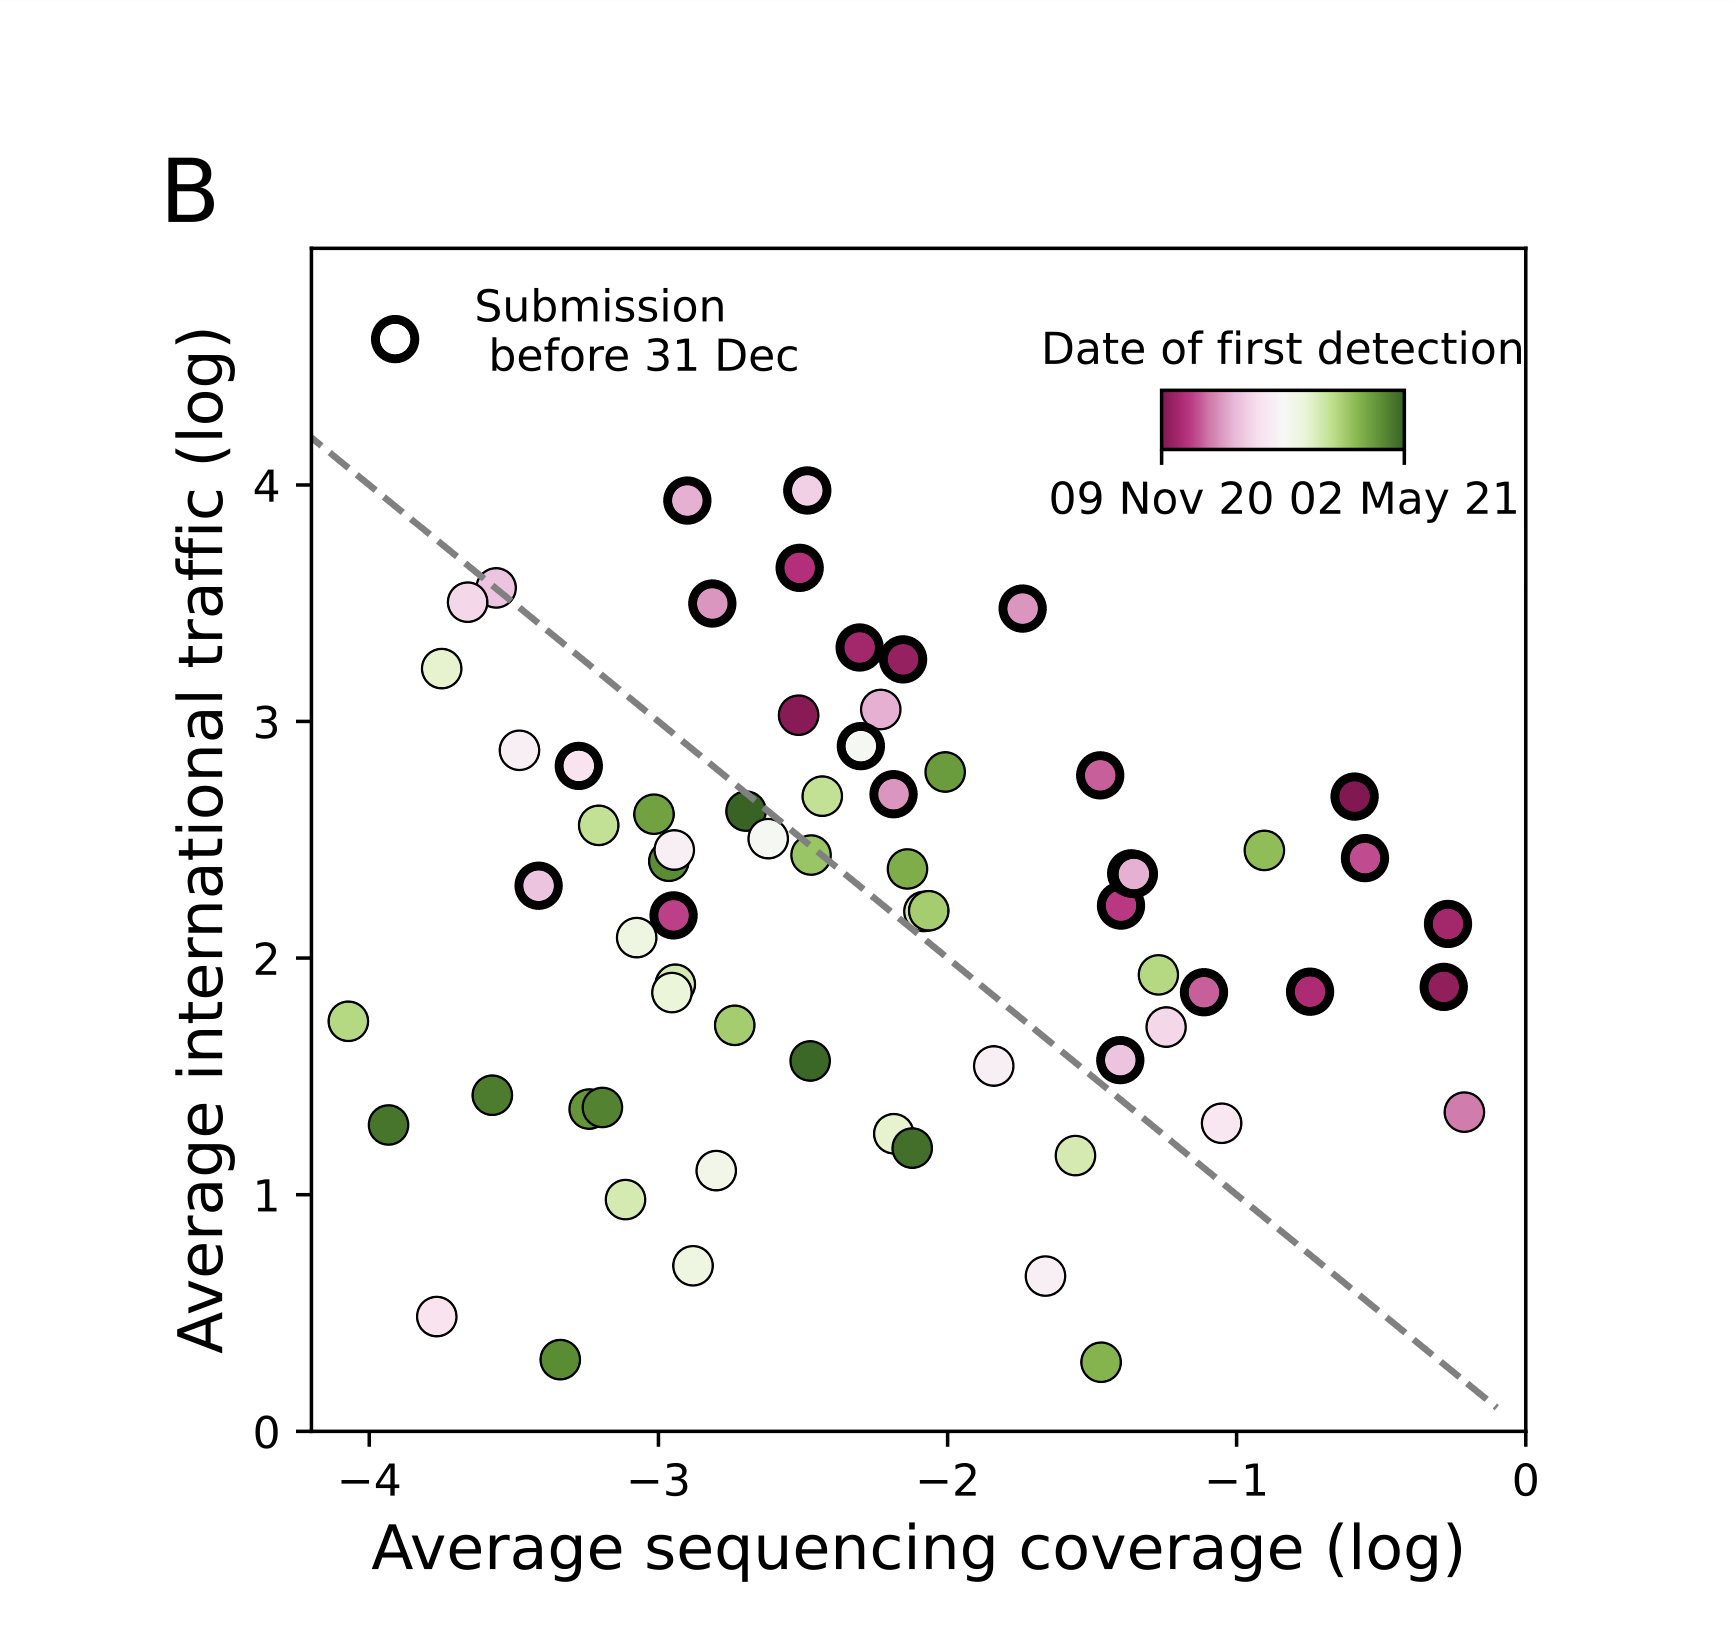
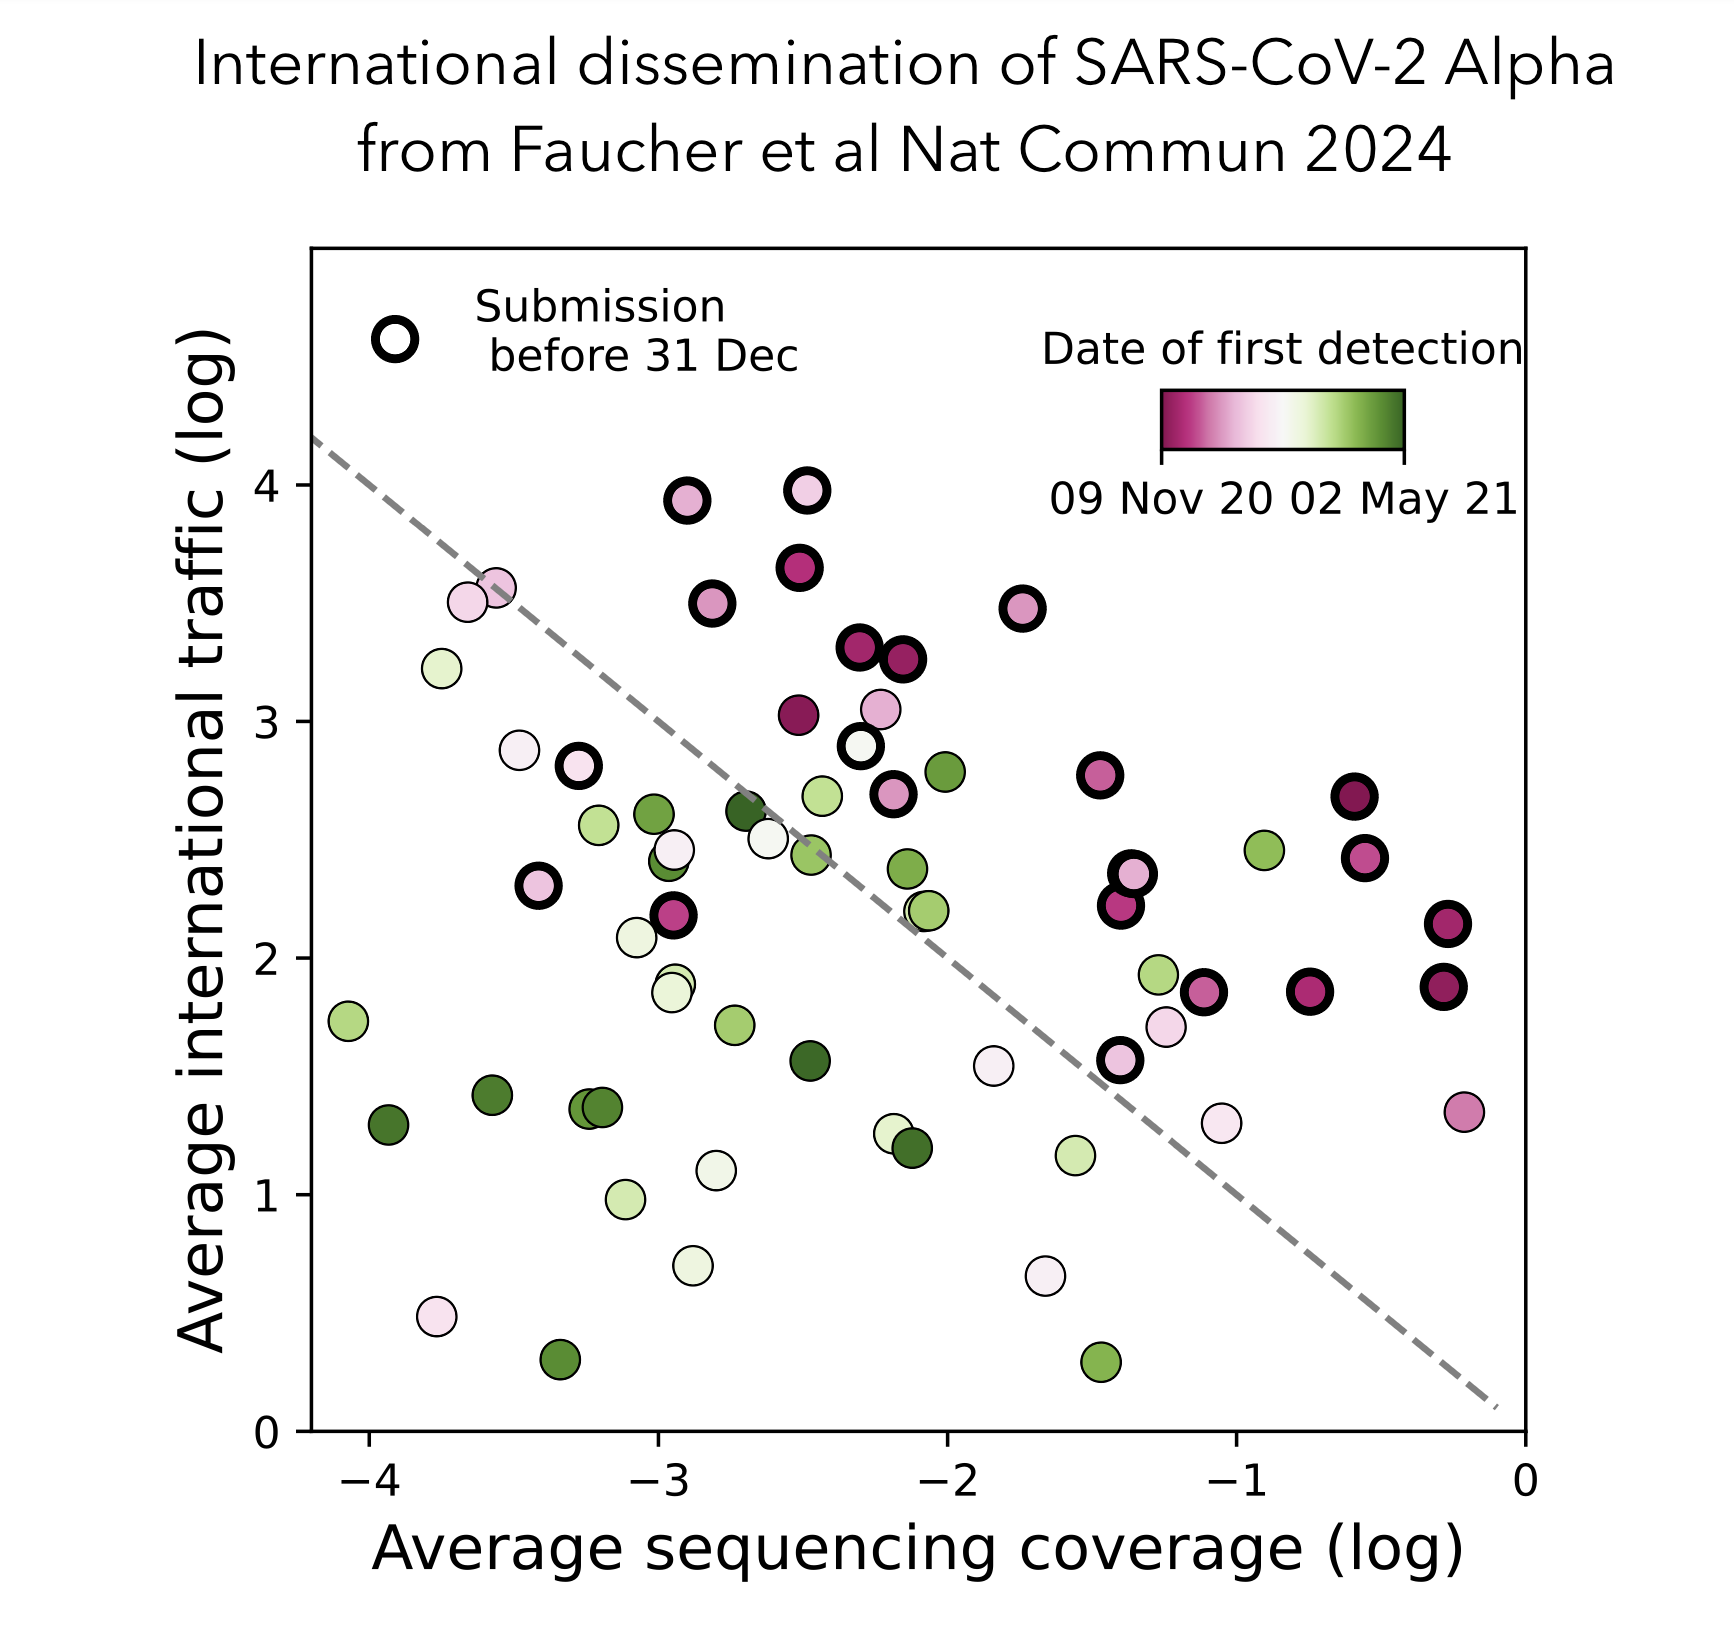
commit

Changed region(s): [[0.1246, 0.0307, 0.9343, 0.1229], [0.218, 0.0921, 0.2803, 0.1229], [0.0934, 0.0921, 0.1246, 0.1536]]

diff --git a/index.html b/index.html
@@ -110,6 +110,9 @@
                                   <a
                                     href="https://academic.oup.com/pnasnexus/article/4/1/pgae561/7926871" target="_blank"><img src="images/GLEAM-GLM.png" height="185"></a>
                                     <p></p>
+                                    <a
+                                      href="https://www.nature.com/articles/s41467-024-46345-1" target="_blank"><img src="images/Alpha-paper.png" height="185"></a>
+                                      <p></p>
                             </div>
                         </div>
                         
